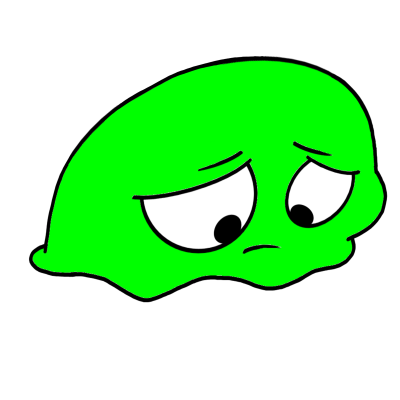
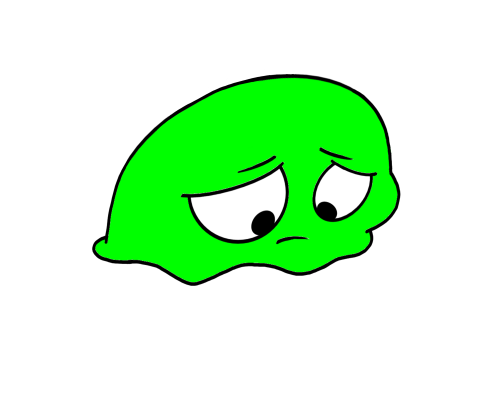
support arbitrary sized images

Changed region(s): [[0.06, 0.12, 0.99, 0.78]]

diff --git a/DumbWaysToDie/Plugin.cs b/DumbWaysToDie/Plugin.cs
@@ -141,7 +141,9 @@ public class DeathSpriteCreator
     private Color[] vpxs;
     private Color[] kpxs;
 
-    private static int WIDTH = 400;
+    private int width;
+    private int height;
+
     private static float MAX_BRIGHTNESS = Color.green.grayscale;
 
     public DeathSpriteCreator(string name)
@@ -163,13 +165,13 @@ public class DeathSpriteCreator
         Plugin.Logger.LogDebug($"Loaded textures for {name} in {watch.ElapsedMilliseconds} ms");
     }
 
-    private static Color[] LoadPixels(string name)
+    private Color[] LoadPixels(string name)
     {
         Texture2D tex = LoadTexture(name);
-        return tex?.GetPixels() ?? new Color[WIDTH * WIDTH];
+        return tex?.GetPixels() ?? new Color[width * height];
     }
 
-    private static Texture2D LoadTexture(string name)
+    private Texture2D LoadTexture(string name)
     {
         string path = Path.Combine(Plugin.AssetsPath, $"{name}.png");
 
@@ -180,9 +182,14 @@ public class DeathSpriteCreator
         Texture2D tex = new Texture2D(2, 2);
         ImageConversion.LoadImage(tex, bytes);
 
-        if (tex.width != WIDTH || tex.height != WIDTH)
+        if (width == 0 || height == 0)
         {
-            Plugin.Logger.LogWarning($"Texture {path} has wrong dimensions {tex.width}x{tex.height}");
+            width = tex.width;
+            height = tex.height;
+        }
+        else if (tex.width != width || tex.height != height)
+        {
+            Plugin.Logger.LogWarning($"Texture {path} has wrong dimensions {tex.width}x{tex.height}, expected {width}x{height}");
         }
 
         // Doing all of this is probably useless, but im too lazy to delete it
@@ -203,7 +210,7 @@ public class DeathSpriteCreator
     {
         var watch = System.Diagnostics.Stopwatch.StartNew();
 
-        Texture2D tex = new Texture2D(WIDTH, WIDTH, TextureFormat.RGBA32, true);
+        Texture2D tex = new Texture2D(width, height, TextureFormat.RGBA32, true);
         tex.name = name;
         tex.filterMode = FilterMode.Bilinear;
 
@@ -214,7 +221,7 @@ public class DeathSpriteCreator
 
         Color killerColor = maybeKillerColor ?? new Color(1, 1, 1, 1);
 
-        Color[] bpxs = backgroundTex?.GetPixels() ?? new Color[WIDTH * WIDTH];
+        Color[] bpxs = backgroundTex?.GetPixels() ?? new Color[width * height];
 
         Parallel.For(0, bpxs.Length, i =>
         {
